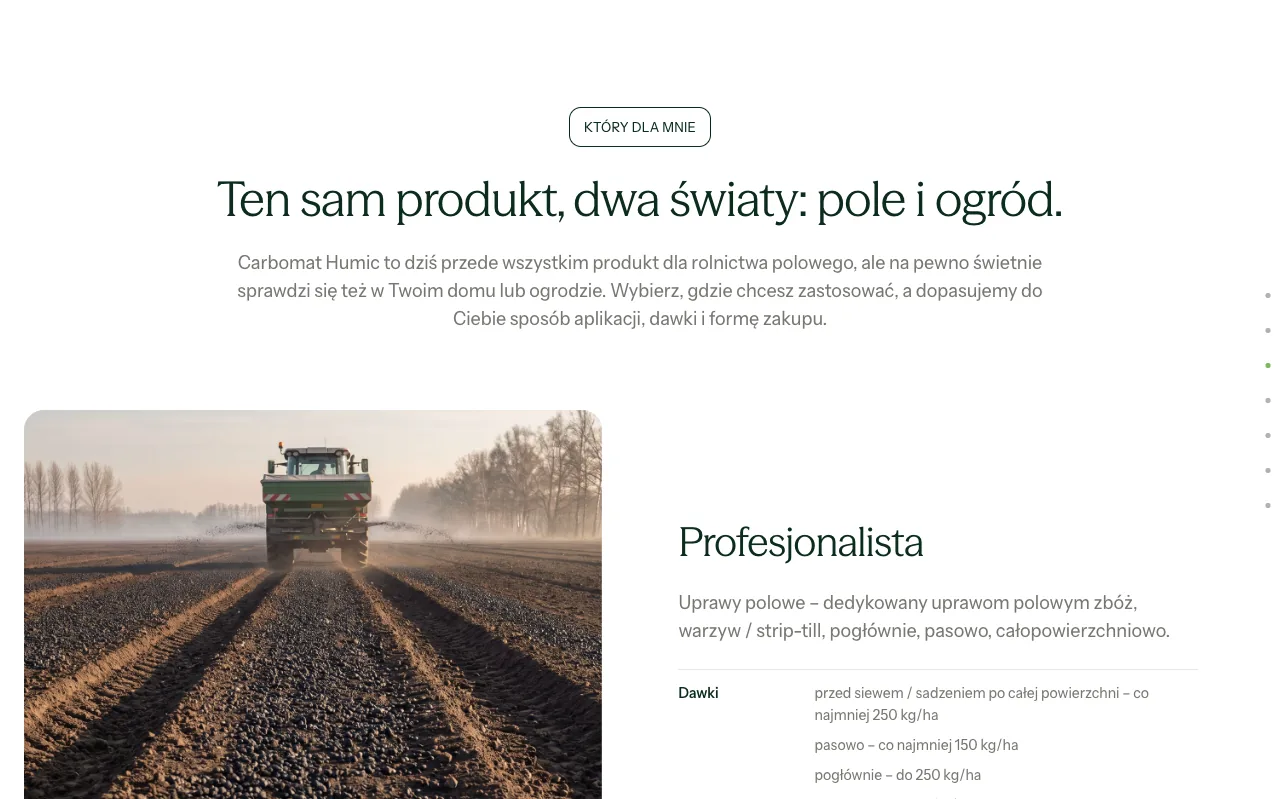
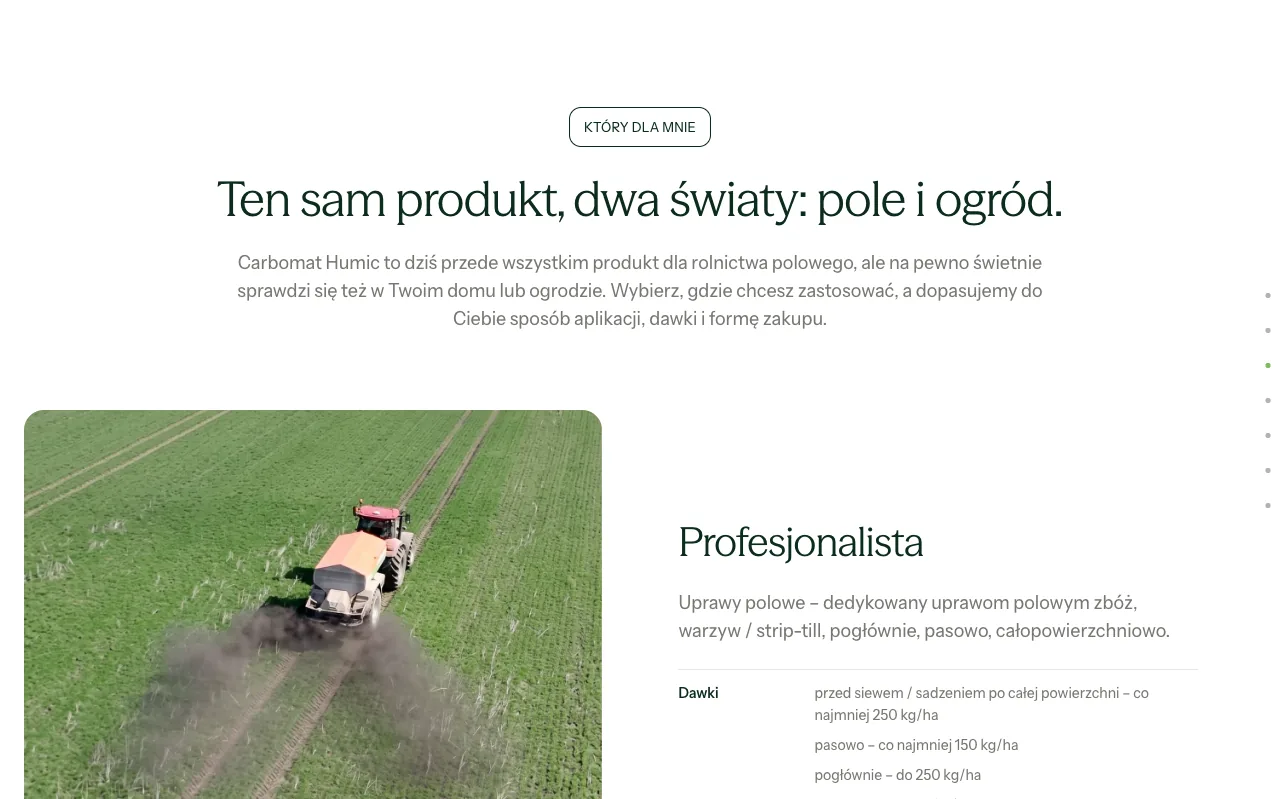
feat(v7): Carbomat Humic photos from product references

Changed region(s): [[0.0, 0.5106, 0.4688, 1.0]]

diff --git a/v7/carbomat-humic.html b/v7/carbomat-humic.html
@@ -577,11 +577,17 @@
 
 
 
+
           <div class="c5-fx__panel" aria-hidden="true">
             <img class="c5-fx__img" data-fx-bg="1" data-on="true" src="img/foto/carbomat-humic-czym-jest-1-pochodzenie.jpg" alt="" width="1493" height="2000" loading="lazy" decoding="async">
-            <img class="c5-fx__img" data-fx-bg="2-6" src="img/foto/carbomat-humic-czym-jest-2-funkcje.jpg" alt="" width="1493" height="2000" loading="lazy" decoding="async">
+            <img class="c5-fx__img" data-fx-bg="2" src="img/foto/carbomat-humic-czym-jest-2-funkcje.jpg" alt="" width="1493" height="2000" loading="lazy" decoding="async">
+            <img class="c5-fx__img" data-fx-bg="3" src="img/foto/carbomat-humic-czym-jest-ph.jpg" alt="" width="1493" height="2000" loading="lazy" decoding="async">
+            <img class="c5-fx__img" data-fx-bg="4" src="img/foto/carbomat-humic-czym-jest-potas.jpg" alt="" width="1493" height="2000" loading="lazy" decoding="async">
+            <img class="c5-fx__img" data-fx-bg="5" src="img/foto/carbomat-humic-czym-jest-biostymulator.jpg" alt="" width="1493" height="2000" loading="lazy" decoding="async">
+            <img class="c5-fx__img" data-fx-bg="6" src="img/foto/carbomat-humic-czym-jest-retencja.jpg" alt="" width="1493" height="2000" loading="lazy" decoding="async">
             <img class="c5-fx__img" data-fx-bg="7" src="img/foto/carbomat-humic-czym-jest-3-kompleks.jpg" alt="" width="1493" height="2000" loading="lazy" decoding="async">
-            <img class="c5-fx__img" data-fx-bg="8-9" src="img/foto/carbomat-humic-czym-jest-4-czystosc.jpg" alt="" width="1493" height="2000" loading="lazy" decoding="async">
+            <img class="c5-fx__img" data-fx-bg="8" src="img/foto/carbomat-humic-czym-jest-4-czystosc.jpg" alt="" width="1493" height="2000" loading="lazy" decoding="async">
+            <img class="c5-fx__img" data-fx-bg="9" src="img/foto/carbomat-humic-czym-jest-rozpuszczalnosc.jpg" alt="" width="1493" height="2000" loading="lazy" decoding="async">
           </div>
 
           <div class="c5-fx__fact" data-fx-fact="1">
